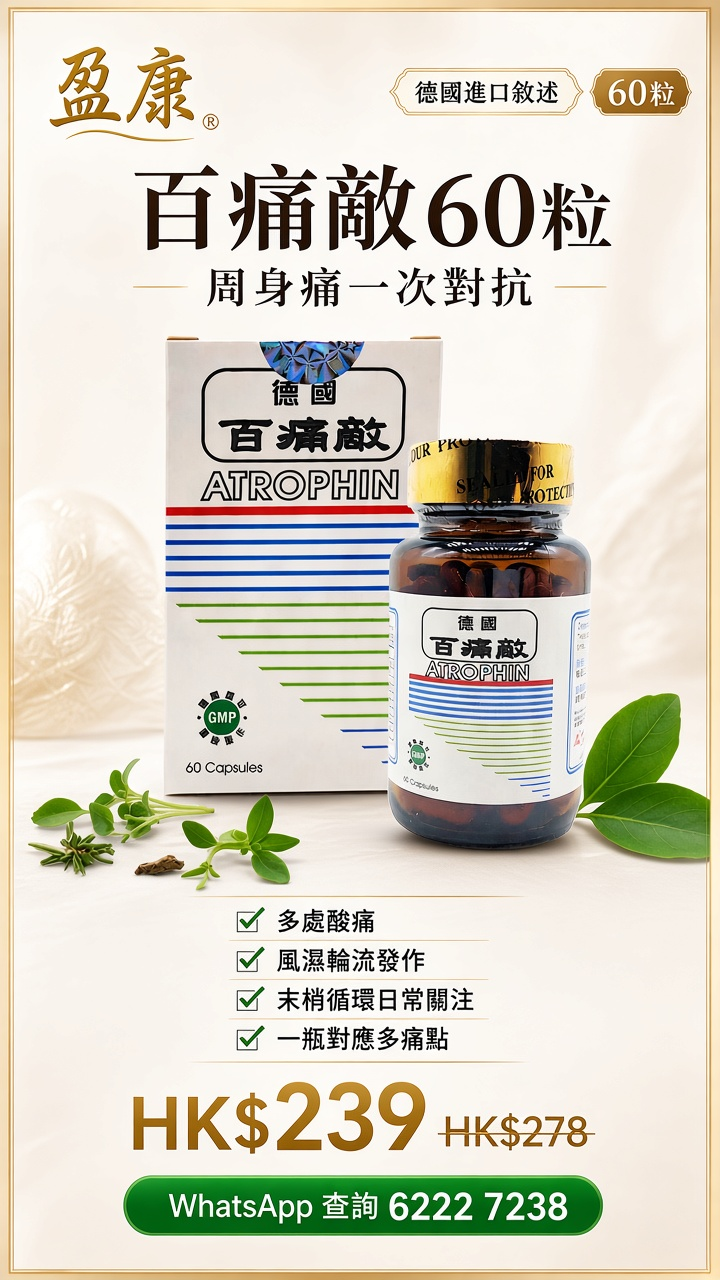
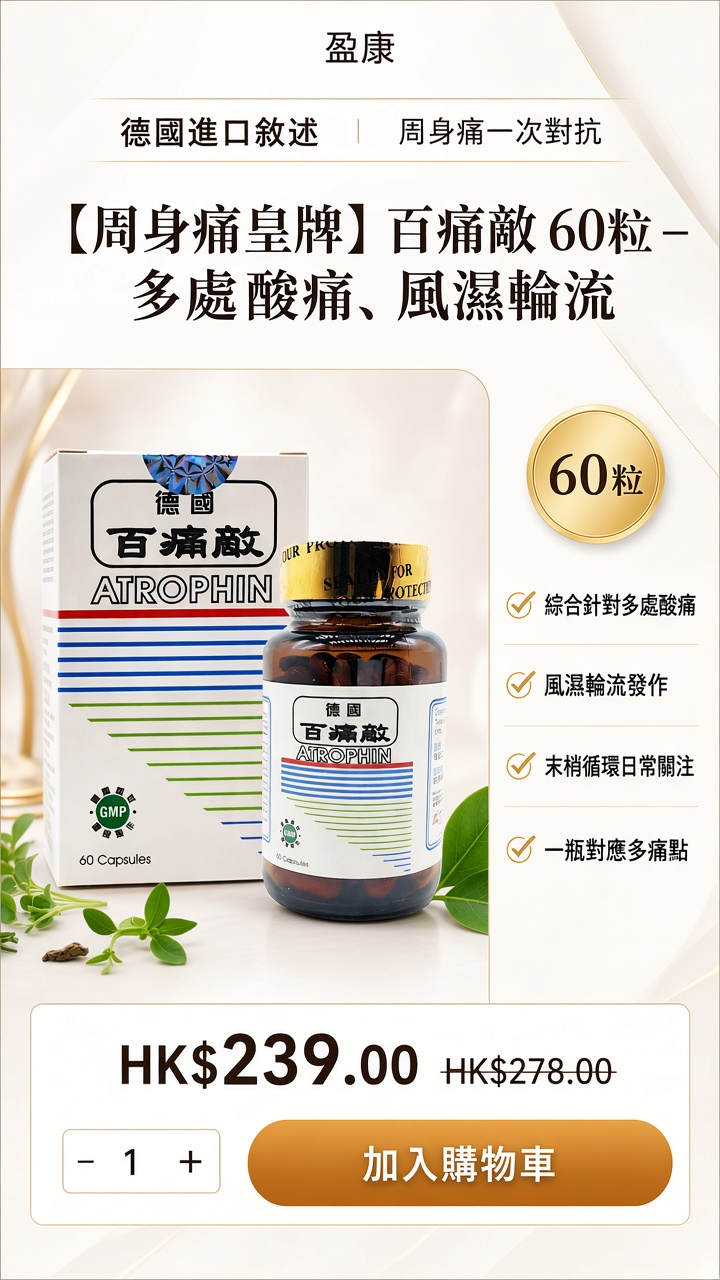
vg6 vita-master pilot: baitongdi + angong (2 SKUs)
Rewrite all 6 panels from Miles Vita Green master template;
real page ingredients; orange 加入購物車 hero; beige/gold TC.
yanbiqing-60caps-y5 untouched.

diff --git a/products/angong-niuhuang-1pills-mk380.html b/products/angong-niuhuang-1pills-mk380.html
@@ -104,28 +104,28 @@
   </div>
 
   
-        <!-- VG6 直向詳圖：英雄・持貨・成分・科學・見證・對比 -->
+          <!-- VG6 直向詳圖：英雄・持貨・成分・科學・見證・對比 -->
   <div class="lf-section pdp-detail" id="product-detail-images">
     <h2>產品<span class="accent">詳圖</span></h2>
-    <p class="ml-soft" style="margin-top:0;margin-bottom:0.85rem">六段直向詳圖（英雄價位・持貨・名方・應急思路・用家分享・對比），按本產品文案逐格製作。SKU：H6838001_S_MK380。</p>
+    <p class="ml-soft" style="margin-top:0;margin-bottom:0.85rem">六段直向詳圖（Vita主模板改寫・本產品文案），可直向滑動瀏覽。SKU：H6838001_S_MK380。</p>
     <div class="pdp-detail-stack">
       <figure class="pdp-detail-fig">
-        <img src="../assets/products/angong-niuhuang-1pills-mk380/detail/vg6-01.jpg" alt="北京安宮牛黃丸 1丸 – 牛黃清熱・傳統急救名方，HK$1080 WhatsApp 查詢" width="720" height="1280" loading="lazy">
+        <img src="../assets/products/angong-niuhuang-1pills-mk380/detail/vg6-01.jpg" alt="【清熱名方】北京安宮牛黃丸 1丸 – 熱盛心煩・咽喉暴痛，HK$1080 加入購物車" width="720" height="1280" loading="lazy">
       </figure>
       <figure class="pdp-detail-fig">
-        <img src="../assets/products/angong-niuhuang-1pills-mk380/detail/vg6-02.jpg" alt="熱盛心煩・咽喉暴痛——家庭常備傳統安宮應急" width="720" height="1280" loading="lazy">
+        <img src="../assets/products/angong-niuhuang-1pills-mk380/detail/vg6-02.jpg" alt="關鍵時刻有備無患・牛黃清熱傳統急救名方" width="720" height="1280" loading="lazy">
       </figure>
       <figure class="pdp-detail-fig">
         <img src="../assets/products/angong-niuhuang-1pills-mk380/detail/vg6-03.jpg" alt="名方核心・牛黃清熱（以包裝標示為準）" width="720" height="1280" loading="lazy">
       </figure>
       <figure class="pdp-detail-fig">
-        <img src="../assets/products/angong-niuhuang-1pills-mk380/detail/vg6-04.jpg" alt="應急思路：熱盛不適 → 傳統清熱名方 → 家庭常備可查" width="720" height="1280" loading="lazy">
+        <img src="../assets/products/angong-niuhuang-1pills-mk380/detail/vg6-04.jpg" alt="熱盛三步驟：心煩暴痛 → 清熱名方思路 → 家庭常備可查" width="720" height="1280" loading="lazy">
       </figure>
       <figure class="pdp-detail-fig">
-        <img src="../assets/products/angong-niuhuang-1pills-mk380/detail/vg6-05.jpg" alt="用家分享：顧家家長・養生長者・應急常備族（虛構角色）" width="720" height="1280" loading="lazy">
+        <img src="../assets/products/angong-niuhuang-1pills-mk380/detail/vg6-05.jpg" alt="明星分享：陳貝兒・胡定欣・毛舜筠談安宮家庭常備（形象視覺）" width="720" height="1280" loading="lazy">
       </figure>
       <figure class="pdp-detail-fig">
-        <img src="../assets/products/angong-niuhuang-1pills-mk380/detail/vg6-06.jpg" alt="為何選擇北京安宮牛黃丸而非普通涼茶／臨時亂買" width="720" height="1280" loading="lazy">
+        <img src="../assets/products/angong-niuhuang-1pills-mk380/detail/vg6-06.jpg" alt="為何選擇北京安宮牛黃丸而非普通涼茶／來歷不明" width="720" height="1280" loading="lazy">
       </figure>
     </div>
   </div>

diff --git a/products/baitongdi-60caps-k0019.html b/products/baitongdi-60caps-k0019.html
@@ -99,25 +99,25 @@
     </div>
   </div>
 
-      <!-- VG6 直向詳圖：英雄・持貨・成分・科學・見證・對比 -->
+        <!-- VG6 直向詳圖：英雄・持貨・成分・科學・見證・對比 -->
   <div class="lf-section pdp-detail" id="product-detail-images">
     <h2>產品<span class="accent">詳圖</span></h2>
-    <p class="ml-soft" style="margin-top:0;margin-bottom:0.85rem">六段直向詳圖（英雄價位・持貨・真實成分・週身痛思路・用家分享・對比），按本產品文案逐格製作。SKU：H6838001_S_k0019。</p>
+    <p class="ml-soft" style="margin-top:0;margin-bottom:0.85rem">六段直向詳圖（Vita主模板改寫・本產品文案），可直向滑動瀏覽。SKU：H6838001_S_k0019。</p>
     <div class="pdp-detail-stack">
       <figure class="pdp-detail-fig">
-        <img src="../assets/products/baitongdi-60caps-k0019/detail/vg6-01.jpg" alt="百痛敵 60粒 – 周身酸痛・多處風濕綜合對抗，HK$239 WhatsApp 查詢" width="720" height="1280" loading="lazy">
+        <img src="../assets/products/baitongdi-60caps-k0019/detail/vg6-01.jpg" alt="【周身痛皇牌】百痛敵 60粒 – 多處酸痛・風濕輪流，HK$239 加入購物車" width="720" height="1280" loading="lazy">
       </figure>
       <figure class="pdp-detail-fig">
-        <img src="../assets/products/baitongdi-60caps-k0019/detail/vg6-02.jpg" alt="呢度痛完嗰度痛？周身酸痛・風濕輪流——一瓶綜合對抗" width="720" height="1280" loading="lazy">
+        <img src="../assets/products/baitongdi-60caps-k0019/detail/vg6-02.jpg" alt="周身痛舒返嚟・多處酸痛風濕綜合對抗・百痛敵" width="720" height="1280" loading="lazy">
       </figure>
       <figure class="pdp-detail-fig">
         <img src="../assets/products/baitongdi-60caps-k0019/detail/vg6-03.jpg" alt="核心敘述成分：碧容健、銀杏精華、複方營養（以包裝為準）" width="720" height="1280" loading="lazy">
       </figure>
       <figure class="pdp-detail-fig">
-        <img src="../assets/products/baitongdi-60caps-k0019/detail/vg6-04.jpg" alt="週身痛思路：多痛點分散 → 微循環關注 → 綜合日常紓緩" width="720" height="1280" loading="lazy">
+        <img src="../assets/products/baitongdi-60caps-k0019/detail/vg6-04.jpg" alt="週身痛三步驟：痛點分散 → 循環負擔 → 百痛敵綜合紓緩" width="720" height="1280" loading="lazy">
       </figure>
       <figure class="pdp-detail-fig">
-        <img src="../assets/products/baitongdi-60caps-k0019/detail/vg6-05.jpg" alt="用家分享：天氣敏感族・家務一族・戶外奔波者（虛構角色）" width="720" height="1280" loading="lazy">
+        <img src="../assets/products/baitongdi-60caps-k0019/detail/vg6-05.jpg" alt="明星分享：陳貝兒・胡定欣・毛舜筠談百痛敵周身痛紓緩（形象視覺）" width="720" height="1280" loading="lazy">
       </figure>
       <figure class="pdp-detail-fig">
         <img src="../assets/products/baitongdi-60caps-k0019/detail/vg6-06.jpg" alt="為何選擇百痛敵而非單一部位藥／只擦外用油" width="720" height="1280" loading="lazy">

diff --git a/scripts/vg6-master-prompt.md b/scripts/vg6-master-prompt.md
@@ -1,0 +1,41 @@
+# VG6 主模板（Miles 2026-10-24 鎖定）
+
+請幫我為我的產品生成一套詳圖，共 6 張，使用 Grok 圖像生成功能。
+
+產品資訊請直接看這個網址的內容，從頁面中提取產品名稱、規格、主要賣點、成分、功效等資料來生成圖片：（產品網址）
+
+生成要求：
+
+- 根據網址內容，把以下 Prompt 裡的 Vita Green / 五色靈芝 相關內容全部替換成我的產品
+- 如果網址裡缺少某些細節（例如明星代言、具體數據、對比表內容），請根據產品自行合理創作，保持專業、可信、適合保健品銷售頁的風格
+- 每張圖都用 Grok 圖像生成
+- 手機直式尺寸（Portrait）
+- 文字清晰、排版專業、適合手機查看
+- 風格統一：高端保健品、米色/金色調、商業攝影感
+
+請依序生成以下 6 張圖：
+
+## 1. 頂部主視覺 + 產品盒
+
+Premium Hong Kong Vita Green health supplement product page top section, clean beige and white background, elegant gold accents. Large golden product box of 五色靈芝 Lingzhi with Chinese and English text, 72粒 circular badge. Top banner text 香港銷售 No.1 and 提升免疫力. Product title below: 【免疫皇牌】五色靈芝 72粒 – 抗病、劫、殘、衰老. Price $659.00 with original price $799.00 crossed out, quantity selector, orange 加入購物車 button. Right side has checkmark benefit points and small product bottles. Professional commercial photography, sharp text, high-end e-commerce style, soft lighting, mobile optimized vertical layout
+
+## 2. 女模特兒持瓶大圖
+
+Elegant Asian woman in her 30s wearing a yellow jacket, smiling gently while holding a Vita Green Lingzhi bottle, soft natural lighting, beige background. Large Chinese text 精神活力 返晒嚟 and 抗病、劫、殘、衰老, 超過20年 全港銷售 No.1. Golden GMP badge. Premium health supplement commercial photography, warm and trustworthy atmosphere, high detail, sharp focus on face and product, mobile vertical layout
+
+## 3. 五色靈芝成分圖
+
+Clean scientific infographic of six types of Lingzhi mushrooms arranged in a mobile-friendly layout on white background. Each mushroom has a label: 赤芝 補心, 青芝 清肝, 黃芝 健脾, 白芝 補肺, 紫芝 益氣, 黑芝 益腎, with short benefit descriptions. Title 100%天然五類六種靈芝. Professional medical illustration style, realistic mushroom photos, gold and brown accents, clear Chinese text, premium health product aesthetic, vertical mobile layout
+
+## 4. 細胞抗氧化資訊圖
+
+Clean medical infographic explaining cell oxidation for Vita Green Lingzhi, vertical mobile layout. Three-step flow: free radical attacking cell → cell damage and inflammation → Lingzhi protecting and repairing cells. Chinese titles 病!!是細胞在喊救命!! and 五色靈芝修護細胞. Scientific diagrams with arrows, shield icons, cell illustrations. White background, gold and red accents, professional healthcare style, clear Chinese text
+
+## 5. 明星代言區塊
+
+Three professional Asian female celebrities in business attire, arranged vertically or stacked for mobile on light beige background. Each has a short Chinese quote about Lingzhi benefits. Names: 陳貝兒, 胡定欣, 毛舜筠. Clean luxury endorsement layout, soft studio lighting, trustworthy and elegant atmosphere, high detail portraits, premium health brand style, vertical mobile layout
+
+## 6. 果體 vs 孢子對比表
+
+Clean comparison infographic for Vita Green Lingzhi, vertical mobile layout. Shows Lingzhi fruiting body powder and a clear comparison table. Chinese headers: 活性成分, 吸收率, 功效全面性, 安全性. Compares 靈芝果體（本產品） vs 靈芝孢子（坊間產品）. Title 為何選擇靈芝果體 而非孢子？. White background, gold accents, clear readable Chinese text, medical product style
+
